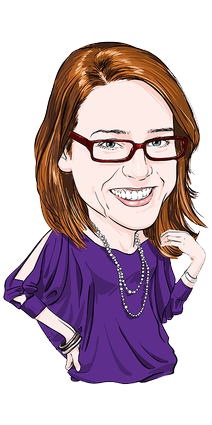
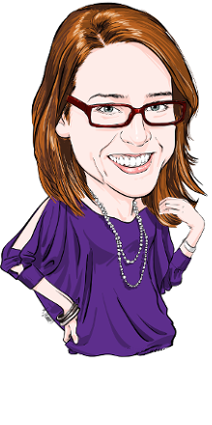
Adjust Willa and Carrie caricatures so they fit the others on a people index page.

diff --git a/source/assets/stylesheets/styles/_person_tile.scss b/source/assets/stylesheets/styles/_person_tile.scss
@@ -41,17 +41,6 @@
   overflow: hidden;
   text-align: center;
   width: 100%;
-
-  .willa-roos {
-    height: 370px;
-    position: relative;
-    top: -50px;
-  }
-  .carrie-bedingfield {
-    height: 350px;
-    position: relative;
-    top: -25px;
-  }
 }
 
 .person-tile__image {

diff --git a/lib/helpers.rb b/lib/helpers.rb
@@ -30,10 +30,4 @@ module Helpers
   def add_atom_feed_to_head
     content_for(:head) { feed_tag :atom, "#{blog.options.prefix.to_s}/feed.xml", title: "The Unboxed Blog" }
   end
-
-  def person_tile_class(person)
-    name = person.short_name
-    tiles_with_styling_exceptions = ["willa-roos","carrie-bedingfield"]
-    name if tiles_with_styling_exceptions.include? name
-  end
 end
